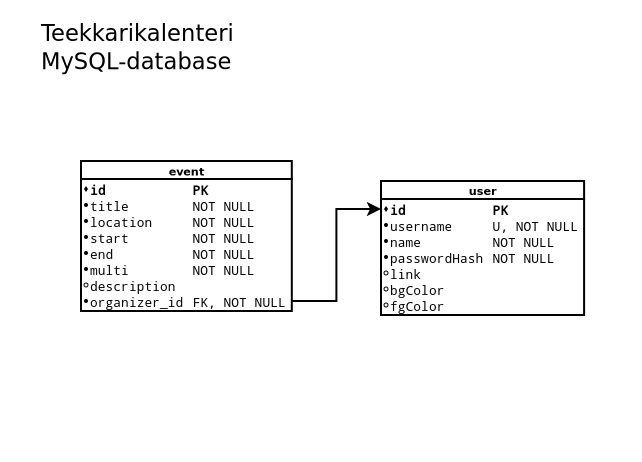
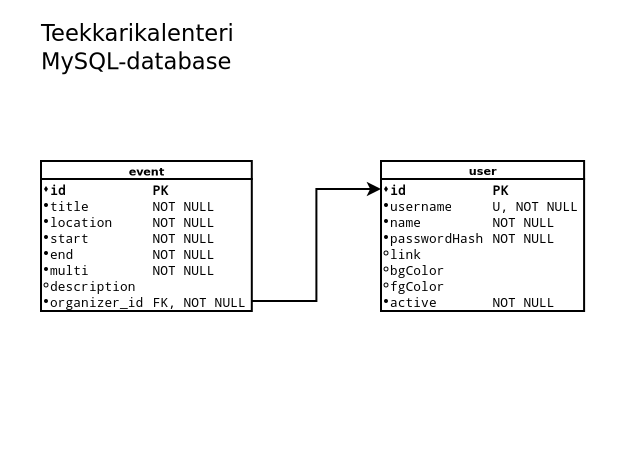
Added active-attribute to user-table.

Changed region(s): [[0.0623, 0.3333, 0.5296, 0.697], [0.4984, 0.3333, 0.9346, 0.697]]

diff --git a/server/database/db.js b/server/database/db.js
@@ -9,7 +9,7 @@ const db = mysql.createPool({
 const createTables = async () => {
   const connection = await db.getConnection()
   // user-table
-  const userSql = 'CREATE TABLE IF NOT EXISTS user (id INT AUTO_INCREMENT PRIMARY KEY, username VARCHAR(20) UNIQUE NOT NULL CHECK (username!=\"\"), name VARCHAR(255) NOT NULL CHECK (name!=\"\"), passwordHash VARCHAR(255) NOT NULL, link VARCHAR(255), bgColor CHAR(6) DEFAULT \"ffffff\" CHECK (LENGTH(bgColor)=6), fgColor CHAR(6) DEFAULT \"000000\" CHECK (LENGTH(fgColor)=6));'
+  const userSql = 'CREATE TABLE IF NOT EXISTS user (id INT AUTO_INCREMENT PRIMARY KEY, username VARCHAR(20) UNIQUE NOT NULL CHECK (username!=\"\"), name VARCHAR(255) NOT NULL CHECK (name!=\"\"), passwordHash VARCHAR(255) NOT NULL, link VARCHAR(255), bgColor CHAR(6) DEFAULT \"ffffff\" CHECK (LENGTH(bgColor)=6), fgColor CHAR(6) DEFAULT \"000000\" CHECK (LENGTH(fgColor)=6), active BOOLEAN NOT NULL DEFAULT true);'
   // event-table
   const eventSql = 'CREATE TABLE IF NOT EXISTS event (id INT AUTO_INCREMENT PRIMARY KEY, title VARCHAR(255) NOT NULL CHECK (title!=\"\"), location VARCHAR(255) NOT NULL CHECK (location!=\"\"), start DATETIME NOT NULL, end DATETIME NOT NULL, multi BOOLEAN NOT NULL, description TEXT, organizer_id INT NOT NULL, FOREIGN KEY (organizer_id) REFERENCES user(id));'
 

diff --git a/server/controllers/users.js b/server/controllers/users.js
@@ -3,8 +3,6 @@ const bcrypt = require('bcrypt')
 const jwt = require('jsonwebtoken')
 const { db } = require('../database/db')
 const {
-  //addNewUser,
-  //getAllEvents,
   getUserById,
   getUserAllById,
   modifyUserById,
@@ -18,34 +16,6 @@ userRouter.get('/', async (request, response, next) => {
   const result = await db.query(getAllUsers)
   response.json(result[0])
 })
-
-// POST new user
-/*userRouter.post('/', async (request, response, next) => {
-  const reqBody = request.body
-
-  if (!reqBody.password || reqBody.password.length < 3) {
-    return response.status(400).json({
-      error: {
-        code: 0,
-        message: 'Password must be at least 3 chars'
-      }
-    })
-  }
-
-  // Generating new password hash
-  const pwHash = await bcrypt.hash(reqBody.password, SALT_ROUNDS)
-
-  const result = await db.query(addNewUser, [
-    reqBody.username,
-    reqBody.name,
-    reqBody.link,
-    pwHash
-  ])
-
-  // Returning the newly added user
-  const userResult = await db.query(getUserById, [result[0].insertId])
-  response.status(201).json(userResult[0][0])
-})*/
 
 // POST modify existing user
 userRouter.post('/:id', async (request, response, next) => {

diff --git a/server/utils/middleware.js b/server/utils/middleware.js
@@ -44,20 +44,20 @@ const errorHandler = (error, request, response, next) => {
     || error.errno === 4025  // MySQL: Constraint failed
     || error.errno === 1292  // MySQL: Incorrect datetime value
     || error.errno === 1406) {  // MySQL: Data too long
-  return response.status(400).json({
-    error: {
-      code: 0,
-      message: error.sqlMessage
-    }
-  })
-} else if (error.errno === 1146){  // MySQL: Table not found
-  return response.status(500).json({
-    error: {
-      code: -1,
-      message: error.sqlMessage
-    }
-  })
-}
+    return response.status(400).json({
+      error: {
+        code: 0,
+        message: error.sqlMessage
+      }
+    })
+  } else if (error.errno === 1146){  // MySQL: Table not found
+    return response.status(500).json({
+      error: {
+        code: -1,
+        message: error.sqlMessage
+      }
+    })
+  }
 
   next(error)
 }

diff --git a/server/database/queries.js b/server/database/queries.js
@@ -8,8 +8,6 @@ const addNewEvent = 'INSERT INTO event (title, location, start, end, multi, desc
 
 const deleteEventById = 'DELETE FROM event WHERE id = ?;'
 
-const addNewUser = 'INSERT INTO user (username, name, link, passwordHash) VALUES (?, ?, ?, ?);'
-
 const getAllUsers = 'SELECT id, name, link FROM user;'
 
 const getUserById = 'SELECT id, username, name, link, bgColor, fgColor FROM user WHERE id = ?;'
@@ -27,7 +25,6 @@ module.exports = {
   getEventById,
   addNewEvent,
   deleteEventById,
-  addNewUser,
   getAllUsers,
   getUserById,
   getUserAllById,
